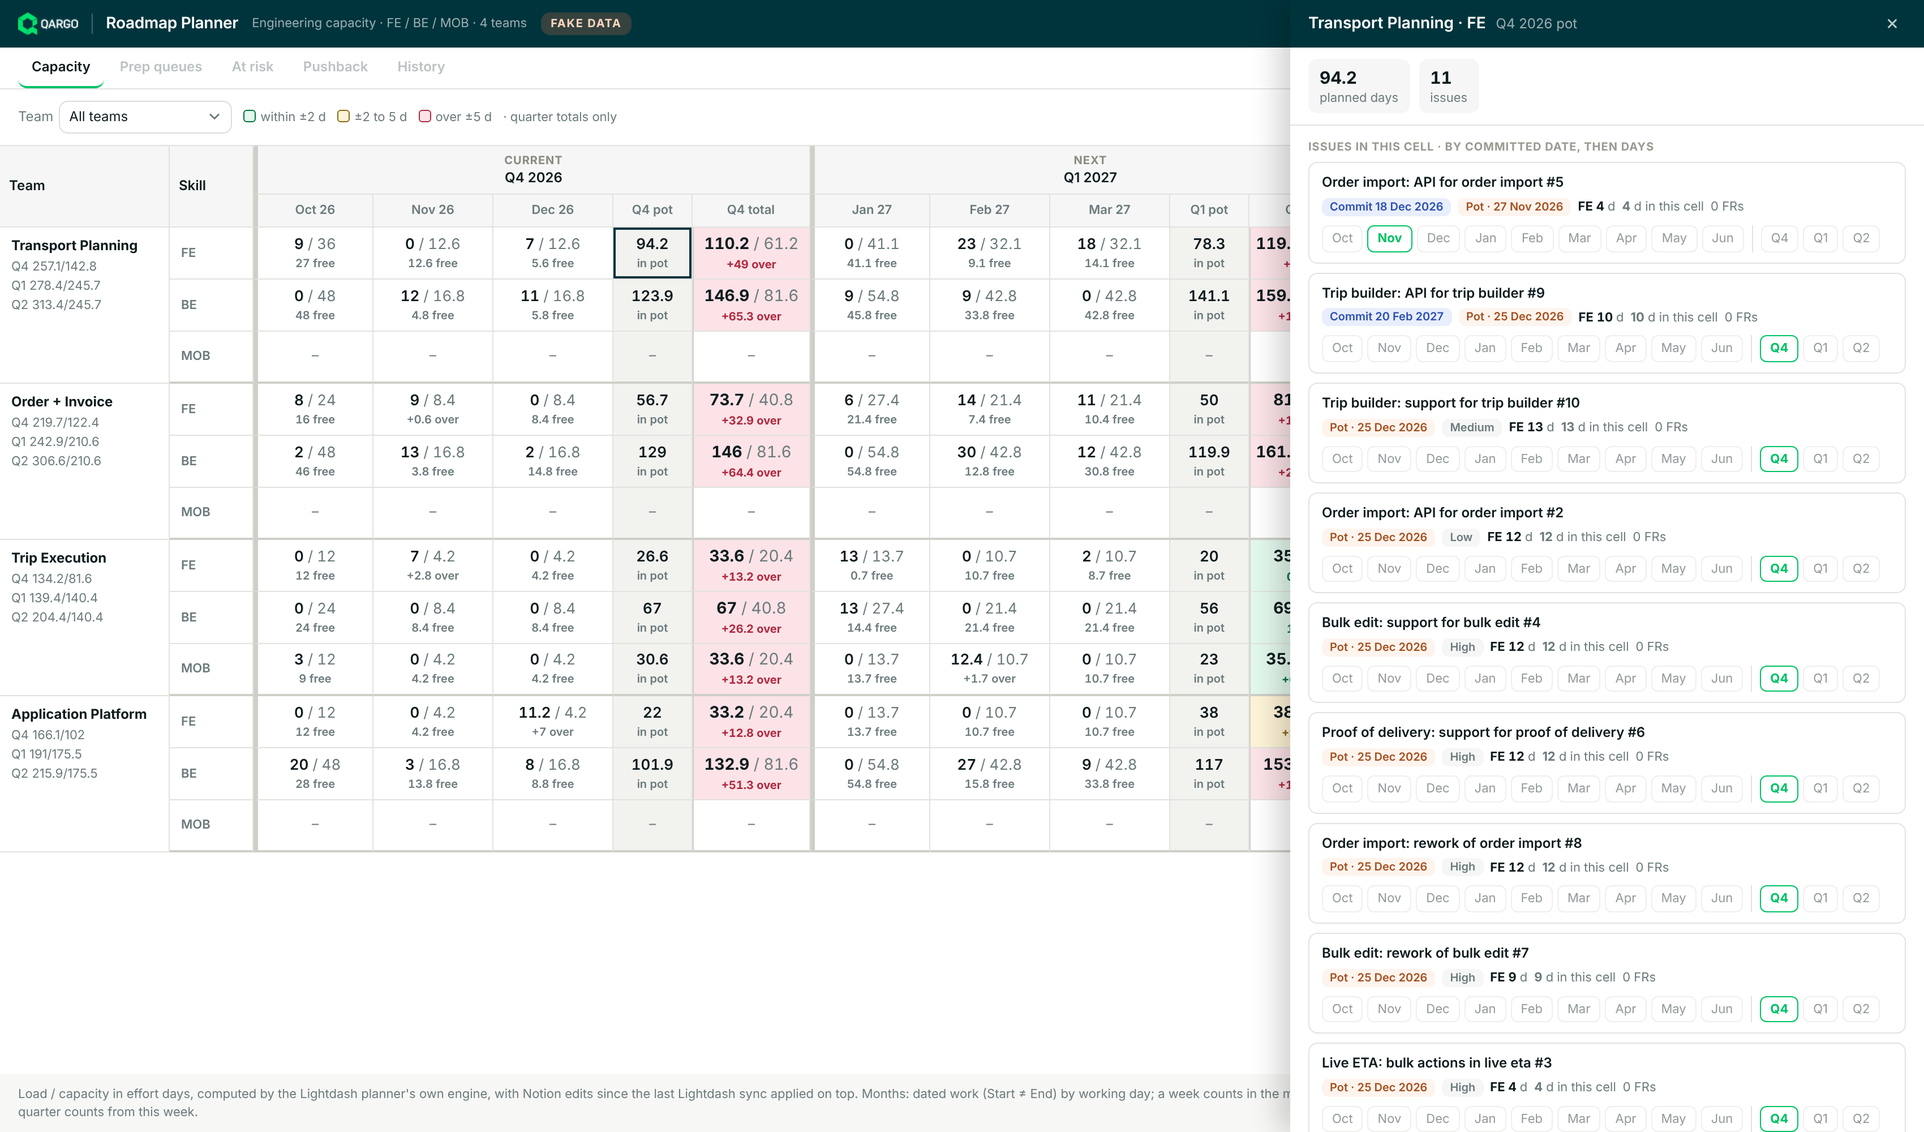
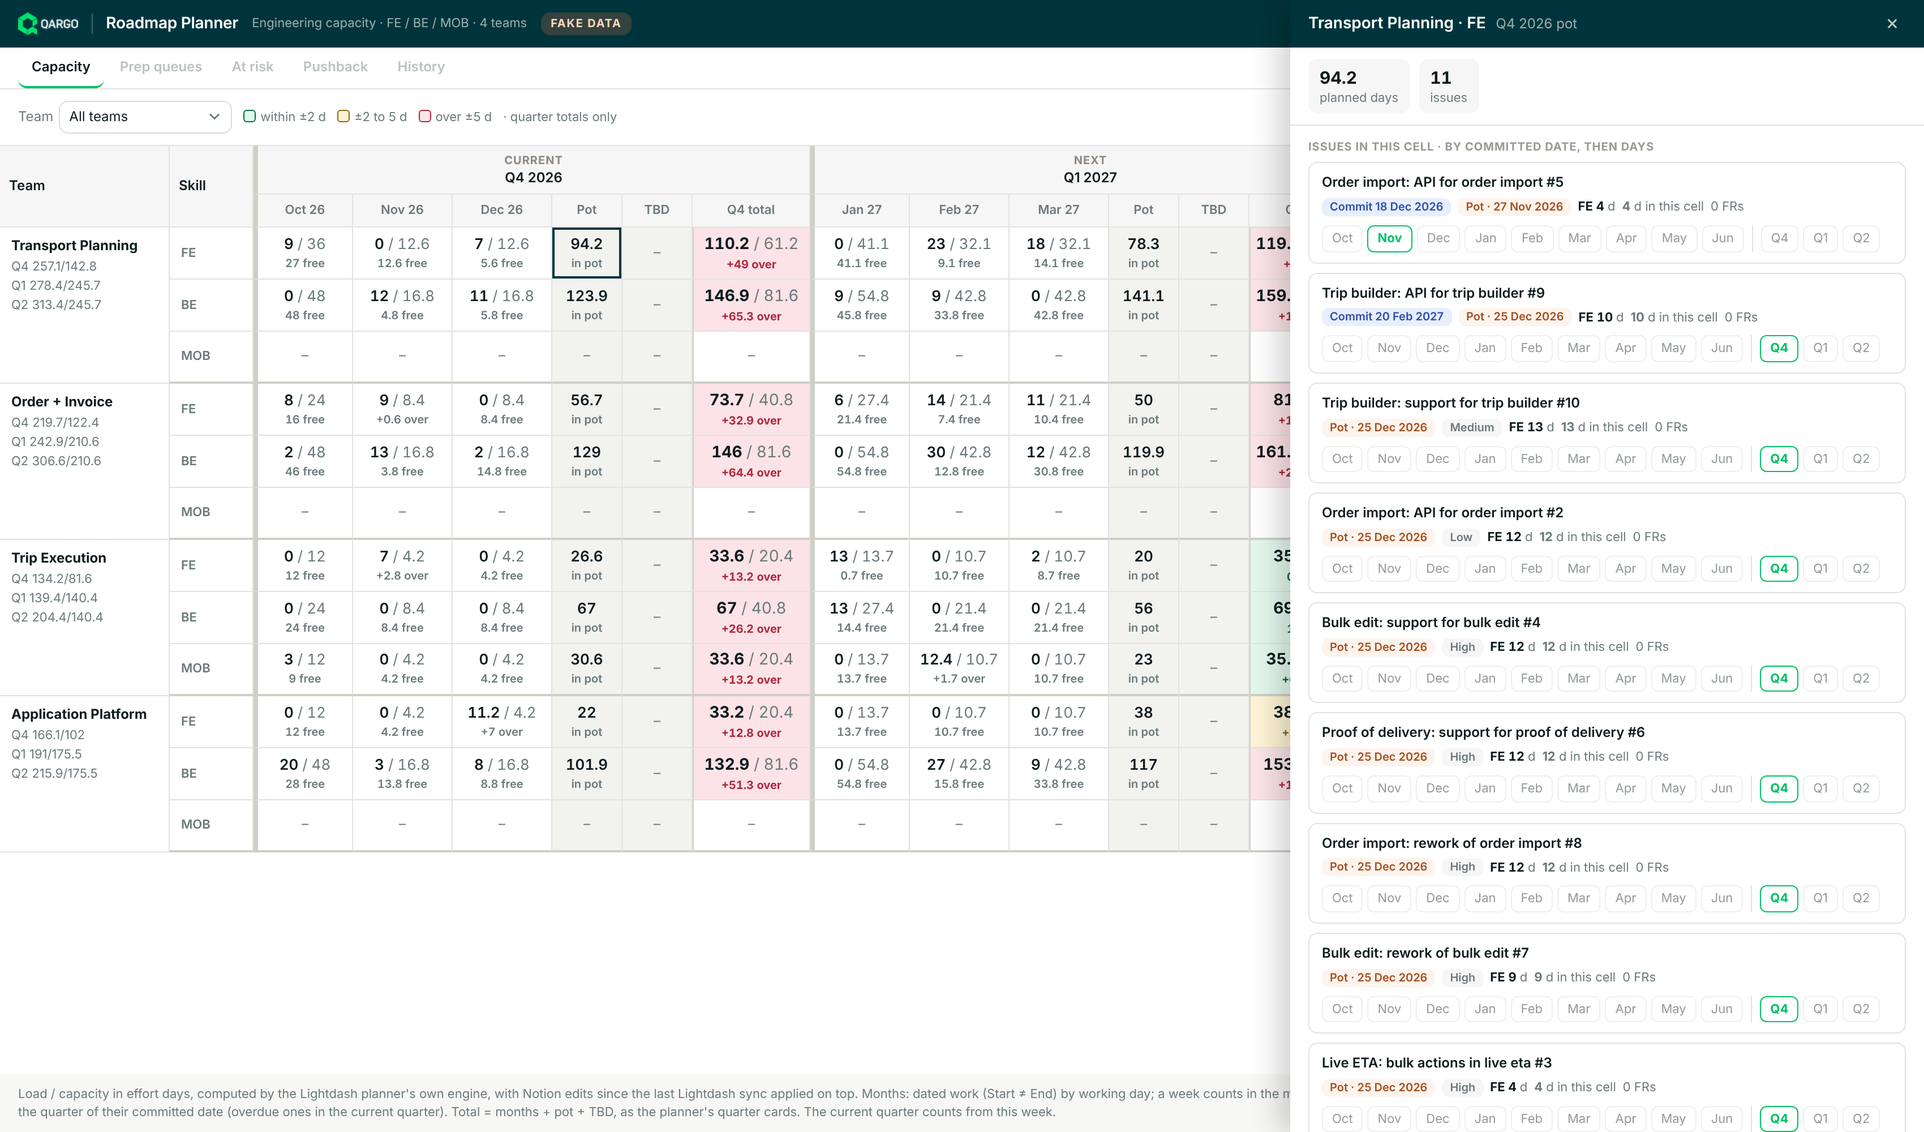
Match the planner's quarter cards: TBD bucket, exact app glue
- TBD: committed issues with no dates count in their committed quarter
  (overdue -> current quarter), as committedTbdMap in the planner app
- Glue copied from the planner app export: TEAM_DISPLAY_ORDER,
  ALLOCATION_SETTINGS, emailToName (verified: no number changes)
- Live Lightdash query now includes customer tasks and deals, which feed
  the engine's effective committed date
- Grid: TBD column per quarter; drawer lists TBD issues
- 19 tests; SPEC.md open questions on glue and engine version closed

Claude-Session: https://claude.ai/code/session_01XsKd44qXQpBiwf2E6HxLbu

diff --git a/src/capacity.js b/src/capacity.js
@@ -11,6 +11,15 @@ export const TEAMS = ['Transport Planning', 'Order + Invoice', 'Trip Execution',
 export const SKILLS = ['FE', 'BE', 'MOB'];
 const ENGINE_SKILL = { FE: 'frontend', BE: 'backend', MOB: 'mobile' };
 
+// Glue copied from the planner app (src/config.js, App.jsx in Sander's export of 9 Oct 2026).
+// Keep in sync when Sander changes them.
+export const TEAM_DISPLAY_ORDER = [
+  'Order + Invoice', 'Transport Planning', 'Trip Execution', 'Application Platform',
+  'SRE', 'AI', 'BI', 'Security', 'Integration Hub',
+  'Connector: Order + Fleet', 'Connector: Bookings', 'Connector: Financials',
+];
+export const ALLOCATION_SETTINGS = { daysPerMonth: 10.2, horizon: 12, startMonth: '2026-07' };
+
 // SPEC.md > Capacity grid: quarter totals green within ±2 days, amber to ±5,
 // red beyond. Month cells pass scale = month capacity / quarter capacity.
 export function cellStatus(planned, capacity, scale = 1) {
@@ -40,22 +49,20 @@ function quiet(fn) {
 
 /**
  * Run the engine on Lightdash rows.
- * Glue we supply (open question in SPEC.md, to confirm with Sander):
- * - config.teams: every team in the allocation plan, so assignee routing matches the planner.
- * - config.emailToName: allocation email → allocation title. Without it, planned holidays never count.
- * - settings: {} so the engine's defaults apply (ramp start month 2026-07).
+ * Glue identical to the planner app (App.jsx): settings = ALLOCATION_SETTINGS,
+ * emailToName = allocation email → allocation title, teams = buildTeams(allocation, TEAM_DISPLAY_ORDER).
  */
 export function runCapacity(lightdashRows, { now = new Date() } = {}) {
   return quiet(() => {
     const rows = toEngineRows(lightdashRows);
     const { issues, customerTasks } = Engine.transformRows(rows);
-    const alloc = Engine.buildAllocation(rows, {});
-    const teams = Engine.buildTeams(alloc, alloc.teams.map((t) => t.name));
+    const alloc = Engine.buildAllocation(rows, ALLOCATION_SETTINGS);
+    const teams = Engine.buildTeams(alloc, TEAM_DISPLAY_ORDER);
     const emailToName = {};
     alloc.people.forEach((p) => { if (p.email) emailToName[p.email] = p.name; });
     const { computed } = Engine.compute({ issues, config: { teams, emailToName } }, alloc, { now });
     const teamIdByLabel = Object.fromEntries(teams.map((t) => [t.label, t.id]));
-    return { issues, customerTasks, computed, teamIdByLabel };
+    return { issues, customerTasks, computed, teamIdByLabel, now };
   });
 }
 
@@ -63,17 +70,48 @@ const quarterIdx = (year, q) => year * 4 + (q - 1);
 const sumMonth = (byWeek, monthKey) => Object.entries(byWeek || {})
   .reduce((s, [wk, v]) => s + (Engine.weekYm(wk) === monthKey ? v : 0), 0);
 
+const currentQuarterIdx = (now) => now.getFullYear() * 4 + Math.floor(now.getMonth() / 3);
+
 /**
- * Grid model: one row per team × skill; per quarter its 3 months, the pot and the total.
+ * "TBD" exactly like the planner's committedTbdMap (template-script.js): committed issues with
+ * no Start and no End, counted in the quarter of their (effective) committed date; overdue
+ * commitments fold into the current quarter; beyond the 3 visible quarters they are dropped.
+ * Returns skill → quarterIdx → days, plus the issue indices per skill/quarter for the drawer.
+ */
+function tbdFor(run, tid) {
+  const { computed: c, issues, now } = run;
+  const base = currentQuarterIdx(now);
+  const days = {};
+  const entries = {};
+  for (const idx of c.committedUnplanned?.[tid] || []) {
+    const iss = issues[idx];
+    if (!iss?.committed) continue;
+    const [cy, cm] = String(iss.committed).split('-').map(Number);
+    let qi = cy * 4 + Math.floor((cm - 1) / 3);
+    if (qi < base) qi = base;
+    if (qi > base + 2) continue;
+    for (const [sk, v] of Object.entries(iss.skillEfforts || {})) {
+      if (!(v > 0)) continue;
+      ((days[sk] ||= {})[qi] = (days[sk][qi] || 0) + v);
+      (((entries[sk] ||= {})[qi] ||= {})[idx] = v);
+    }
+  }
+  return { days, entries };
+}
+
+/**
+ * Grid model: one row per team × skill; per quarter its 3 months, the pot, the TBD and the total.
  * - Months: dated work (Start ≠ End) spread over working days; a week counts in the month of its Friday.
  * - Pot: issues with Start = End, at quarter level only (no month), exactly like the planner.
- * - Total: months + pot against the quarter's capacity.
+ * - TBD: committed issues with no dates, in the quarter of their committed date (see tbdFor).
+ * - Total: months + pot + TBD against the quarter's capacity, as the planner's quarter cards.
  */
 export function buildGrid(run, horizon) {
   const { computed: c, teamIdByLabel } = run;
   const rows = [];
   for (const team of TEAMS) {
     const tid = teamIdByLabel[team];
+    const tbd = tbdFor(run, tid);
     for (const skill of SKILLS) {
       const sk = ENGINE_SKILL[skill];
       const quarters = horizon.map((q) => {
@@ -84,9 +122,11 @@ export function buildGrid(run, horizon) {
         }));
         const cap = raw.reduce((s, m) => s + m.capacity, 0);
         const months = raw.map((m) => ({ ...m, status: cellStatus(m.planned, m.capacity, cap ? m.capacity / cap : 1 / 3) }));
-        const pot = c.newTeamSkillPotQ?.[tid]?.[sk]?.[quarterIdx(q.year, q.q)] || 0;
-        const planned = months.reduce((s, m) => s + m.planned, 0) + pot;
-        return { key: q.key, months, pot, planned, capacity: cap, status: cellStatus(planned, cap) };
+        const qi = quarterIdx(q.year, q.q);
+        const pot = c.newTeamSkillPotQ?.[tid]?.[sk]?.[qi] || 0;
+        const tbdDays = tbd.days[sk]?.[qi] || 0;
+        const planned = months.reduce((s, m) => s + m.planned, 0) + pot + tbdDays;
+        return { key: q.key, months, pot, tbd: tbdDays, planned, capacity: cap, status: cellStatus(planned, cap) };
       });
       rows.push({ team, skill, quarters });
     }
@@ -96,7 +136,7 @@ export function buildGrid(run, horizon) {
 
 /**
  * Issues behind one cell with the days they put there, committed date first, then most days.
- * period = 'YYYY-MM' (month), 'YYYY-Qn' (quarter total) or 'YYYY-Qn-pot'.
+ * period = 'YYYY-MM' (month), 'YYYY-Qn' (quarter total), 'YYYY-Qn-pot' or 'YYYY-Qn-tbd'.
  */
 export function cellIssues(run, team, skill, period) {
   const { computed: c, issues, teamIdByLabel } = run;
@@ -104,11 +144,13 @@ export function cellIssues(run, team, skill, period) {
   const sk = ENGINE_SKILL[skill];
   const days = {};
   const add = (map) => Object.entries(map || {}).forEach(([idx, v]) => { days[idx] = (days[idx] || 0) + v; });
-  const qm = /^(\d{4})-Q(\d)(-pot)?$/.exec(period);
+  const qm = /^(\d{4})-Q(\d)(?:-(pot|tbd))?$/.exec(period);
   if (qm) {
-    const [year, q, potOnly] = [Number(qm[1]), Number(qm[2]), !!qm[3]];
-    add(c.newTeamSkillPotEntries?.[tid]?.[sk]?.[quarterIdx(year, q)]);
-    if (!potOnly) {
+    const [year, q, part] = [Number(qm[1]), Number(qm[2]), qm[3]];
+    const qi = quarterIdx(year, q);
+    if (part !== 'tbd') add(c.newTeamSkillPotEntries?.[tid]?.[sk]?.[qi]);
+    if (part !== 'pot') add(tbdFor(run, tid).entries[sk]?.[qi]);
+    if (!part) {
       for (let i = 0; i < 3; i++) add(c.newTeamSkillMonthEntries?.[tid]?.[sk]?.[`${year}-${String((q - 1) * 3 + i + 1).padStart(2, '0')}`]);
     }
   } else {

diff --git a/src/ui/grid.js b/src/ui/grid.js
@@ -20,23 +20,24 @@ function cell(c, attrs, extraClass = '', neutral = false) {
     <div class="d">${delta(c.planned, c.capacity)}</div></td>`;
 }
 
-function potCell(days, attrs) {
-  if (!days) return '<td class="cell pot empty">–</td>';
-  return `<td class="cell pot" ${attrs} title="${fmt(days)} days with Start = End, at quarter level"><div class="n">${fmt(days)}</div><div class="d">in pot</div></td>`;
+function bucketCell(days, attrs, kind) {
+  if (!days) return `<td class="cell pot empty ${kind}">–</td>`;
+  const title = kind === 'tbd' ? 'committed, no dates yet: counted in the quarter of the committed date' : 'Start = End, at quarter level';
+  return `<td class="cell pot ${kind}" ${attrs} title="${fmt(days)} days ${title}"><div class="n">${fmt(days)}</div><div class="d">${kind === 'tbd' ? 'TBD' : 'in pot'}</div></td>`;
 }
 
 export function renderGrid(el, grid, horizon, { teamFilter = 'all' } = {}) {
   const teams = teamFilter === 'all' ? TEAMS : [teamFilter];
   let h = '<table class="grid"><colgroup><col class="c-team"><col class="c-skill">';
-  for (let i = 0; i < horizon.length; i++) h += '<col><col><col><col class="c-pot"><col class="c-qt">';
+  for (let i = 0; i < horizon.length; i++) h += '<col><col><col><col class="c-pot"><col class="c-pot"><col class="c-qt">';
   h += '</colgroup><thead><tr class="q"><th class="lead" rowspan="2">Team</th><th class="lead2" rowspan="2">Skill</th>';
   for (const q of horizon) {
-    h += `<th colspan="5" class="qdiv ${q.role}"><span class="role">${ROLE_LABEL[q.role]}</span>${esc(q.label)}</th>`;
+    h += `<th colspan="6" class="qdiv ${q.role}"><span class="role">${ROLE_LABEL[q.role]}</span>${esc(q.label)}</th>`;
   }
   h += '</tr><tr class="m">';
   for (const q of horizon) {
     q.months.forEach((m, i) => { h += `<th class="${i === 0 ? 'qdiv' : ''}">${m.label} ${String(m.year).slice(2)}</th>`; });
-    h += `<th>${q.shortLabel} pot</th><th>${q.shortLabel} total</th>`;
+    h += `<th title="Issues with Start = End">Pot</th><th title="Committed, no dates yet">TBD</th><th>${q.shortLabel} total</th>`;
   }
   h += '</tr></thead><tbody>';
 
@@ -56,7 +57,8 @@ export function renderGrid(el, grid, horizon, { teamFilter = 'all' } = {}) {
       const at = (period) => `data-team="${esc(team)}" data-skill="${row.skill}" data-period="${period}"`;
       row.quarters.forEach((q) => {
         q.months.forEach((m, i) => { h += cell(m, at(m.key), i === 0 ? 'qdiv' : '', true); });
-        h += potCell(q.pot, at(`${q.key}-pot`));
+        h += bucketCell(q.pot, at(`${q.key}-pot`), 'potc');
+        h += bucketCell(q.tbd, at(`${q.key}-tbd`), 'tbd');
         h += cell(q, at(q.key), 'qt');
       });
       h += '</tr>';

diff --git a/src/ui/drawer.js b/src/ui/drawer.js
@@ -14,6 +14,7 @@ function cellInfo(row, horizon, period) {
     const gq = row.quarters[qi];
     if (period === q.key) return { label: `${q.label} total`, c: gq };
     if (period === `${q.key}-pot`) return { label: `${q.label} pot`, c: { planned: gq.pot, capacity: null } };
+    if (period === `${q.key}-tbd`) return { label: `${q.label} TBD (committed, no dates)`, c: { planned: gq.tbd, capacity: null } };
     const mi = q.months.findIndex((m) => m.key === period);
     if (mi >= 0) return { label: `${q.months[mi].label} ${q.months[mi].year}`, c: gq.months[mi] };
   }
@@ -45,7 +46,7 @@ function issueCard({ issue, days }, skill, horizon, change) {
     return v ? (s === skill ? `<b>${s} ${fmt(v)}</b>` : `${s} ${fmt(v)}`) : null;
   }).filter(Boolean).join(' · ');
   const pot = issue.start && issue.start === issue.end;
-  const when = pot ? `Pot · ${formatDate(issue.end)}` : `${formatDate(issue.start)} → ${formatDate(issue.end)}`;
+  const when = !issue.start && !issue.end ? 'No dates (TBD)' : pot ? `Pot · ${formatDate(issue.end)}` : `${formatDate(issue.start)} → ${formatDate(issue.end)}`;
   const tags = [
     issue.committed ? `<span class="tag ${late ? 'late' : 'commit'}">${late ? 'After commit ' : 'Commit '}${formatDate(issue.committed)}</span>` : '',
     `<span class="tag ${pot ? 'qtr' : ''}">${when}</span>`,

diff --git a/src/ui/app.js b/src/ui/app.js
@@ -73,7 +73,7 @@ function shell() {
       <div id="banners"></div>
     </header>
     <main class="gridwrap" id="grid"><div class="loading">Loading capacity from Lightdash…</div></main>
-    <div class="note">Load / capacity in effort days, computed by the Lightdash planner's own engine, with Notion edits since the last Lightdash sync applied on top. Months: dated work (Start ≠ End) by working day; a week counts in the month of its Friday. Pot: issues with Start = End, at quarter level. Total = months + pot. The current quarter counts from this week.</div>
+    <div class="note">Load / capacity in effort days, computed by the Lightdash planner's own engine, with Notion edits since the last Lightdash sync applied on top. Months: dated work (Start ≠ End) by working day; a week counts in the month of its Friday. Pot: issues with Start = End, at quarter level. TBD: committed issues with no dates, in the quarter of their committed date (overdue ones in the current quarter). Total = months + pot + TBD, as the planner's quarter cards. The current quarter counts from this week.</div>
     <aside class="drawer" id="drawer"></aside>`;
 
   document.getElementById('teamSel').addEventListener('change', (e) => { state.teamFilter = e.target.value; draw(); });

diff --git a/test/capacity.test.js b/test/capacity.test.js
@@ -85,3 +85,16 @@ test('issues with effort but no team or assignee are flagged', () => {
   const { run } = grid([fe('a1')], [orphan]);
   assert.deepEqual(issuesWithoutTeam(run).map((i) => i.id), ['o1']);
 });
+
+test('TBD: committed issues without dates count in their committed quarter (overdue → current, beyond window → dropped)', () => {
+  const q1 = F({ id: 't1', title: 'Committed Feb, unplanned', team: TP, committed: '2027-02-10', fe: 7 });
+  const overdue = F({ id: 't2', title: 'Committed Aug, unplanned', team: TP, committed: '2026-08-01', fe: 3 });
+  const far = F({ id: 't3', title: 'Committed 2028', team: TP, committed: '2028-02-01', fe: 9 });
+  const { run, g } = grid([fe('a1')], [q1, overdue, far]);
+  const q = row(g, TP, 'FE').quarters;
+  close(q[0].tbd, 3); close(q[0].planned, 3);
+  close(q[1].tbd, 7); close(q[1].planned, 7);
+  close(q[2].tbd, 0);
+  assert.deepEqual(cellIssues(run, TP, 'FE', '2027-Q1-tbd').map((x) => x.issue.id), ['t1']);
+  assert.deepEqual(cellIssues(run, TP, 'FE', '2026-Q4').map((x) => x.issue.id), ['t2']);
+});

diff --git a/src/data/live.js b/src/data/live.js
@@ -48,7 +48,8 @@ export async function loadLightdashRows(mcp) {
     description: 'Default row of serve_engineering_capacity for the Roadmap Planner',
     queryConfig: {
       exploreName: 'serve_engineering_capacity',
-      dimensions: ['serve_engineering_capacity_features', 'serve_engineering_capacity_engineering_team_allocations'],
+      // Customer tasks feed the engine's effective committed date (earliest of the issue and its FRs); deals name the customers.
+      dimensions: ['serve_engineering_capacity_features', 'serve_engineering_capacity_engineering_team_allocations', 'serve_engineering_capacity_customer_tasks', 'serve_engineering_capacity_deals'],
       metrics: [], sorts: [], limit: 2,
       filters: { type: 'and', dimensions: [{ fieldId: 'serve_engineering_capacity_is_default', fieldType: 'boolean', fieldFilterType: 'boolean', operator: 'equals', values: [true] }] },
     },

diff --git a/src/ui/styles.css b/src/ui/styles.css
@@ -191,7 +191,8 @@ table.grid { border-collapse: separate; border-spacing: 0; font-size: 12px; tabl
 .datebtns button.cur { border-color: var(--green-dark); color: var(--green-dark); font-weight: 700; opacity: 1; }
 .datebtns .sep { width: 1px; background: var(--line); margin: 0 3px; }
 
-.grid col.c-team { width: 150px; } .grid col.c-skill { width: 74px; } .grid col.c-qt { width: 104px; } .grid col.c-pot { width: 70px; }
+.grid col.c-team { width: 150px; } .grid col.c-skill { width: 74px; } .grid col.c-qt { width: 104px; } .grid col.c-pot { width: 62px; }
+.grid td.cell.tbd .d { color: #b45309; }
 .grid td.cell.pot { background: var(--qtot); } .grid td.cell.pot .d { color: var(--muted); font-weight: 600; }
 .issue .t a { color: inherit; text-decoration: none; } .issue .t a:hover { text-decoration: underline; }
 @media (max-width: 640px) {

diff --git a/SPEC.md b/SPEC.md
@@ -56,6 +56,8 @@ Committed dates drive the plan; GO LIVE dates never do directly.
   - A week counts in the month of its Friday. The current quarter counts from the current week only.
   - Load goes to the assignee's team first; the Team property only routes unassigned issues. An issue with Team = Transport Planning assigned to a Connectors engineer counts against Connectors.
   - Issues with Start = End are the quarter "pot": they count at quarter level, never in a month, whether committed or not.
+  - "TBD": committed issues with no Start and no End count in the quarter of their effective committed date (earliest of the issue's own date, its customer tasks' dates and the issues it blocks). Overdue ones count in the current quarter; ones beyond the 3 visible quarters are left out.
+  - Firefighting without a skill is a team-level drain in the planner. It has no skill, so it is not in our per-skill cells.
 - Capacity is a constant job: estimates grow mid-quarter (5 to 15 days happens), dependencies surface, issues move. The tool must make each change visible.
 
 **Dependencies**
@@ -117,7 +119,8 @@ The main screen is the capacity puzzle; everything else feeds it or warns about 
 - Columns per quarter: 3 months, the pot, the quarter total. Matches the Lightdash planner exactly (decided 2026-10-09, replaces the earlier "spread ⅓ per month" decision).
   - Month: dated work (Start ≠ End) spread over its working days.
   - Pot: every issue with Start = End, at quarter level, including committed issues placed on a month's last Friday.
-  - Total: months + pot against the quarter's capacity.
+  - TBD: committed issues with no dates (see Capacity).
+  - Total: months + pot + TBD against the quarter's capacity, as the planner's quarter cards.
 - Each cell: planned days vs capacity. Quarter totals: green within ±2 days, amber to ±5, red beyond.
 - Month cells are neutral (no colour): with pot work at quarter level, month load alone says little. Only quarter totals are coloured. Decided 2026-10-09, replaces the earlier "scaled month thresholds".
 - Click a cell: the issues in it, sorted by committed date then score.
@@ -247,8 +250,9 @@ v1 replaces the Notion views for weekly planning; v2 opens it to others; v3 sugg
 - [x] Can Claude Code publish to the claude.ai artifact runtime with `mcp`? Yes, confirmed 2026-10-09.
 - [ ] How often does the Lightdash capacity dataset refresh? Decides how much the live Notion overlay must cover.
 - [x] Who owns the capacity planner's math? Sander De Wilde. We use his engine file unchanged and swap in each new export.
-- [ ] How does the planner app build `emailToName`, `settings` and `config.teams` for the engine? We map allocation email → allocation title (without it planned holidays never count) and use default settings. To confirm with Sander; it can move a Q4 cell by up to 4.5 days.
-- [ ] Engine version: we have the 27 Aug 2026 export. Sander to send the latest.
+- [x] How does the planner app build `emailToName`, `settings` and `config.teams`? Confirmed from Sander's app export (9 Oct 2026): email → title, `{daysPerMonth: 10.2, horizon: 12, startMonth: '2026-07'}`, `buildTeams(allocation, TEAM_DISPLAY_ORDER)`. Copied into `src/capacity.js`.
+- [x] Engine version: the app export of 9 Oct 2026 carries the same engine file as the 27 Aug export (byte-identical).
+- [ ] The default Lightdash row with customer tasks and deals is about 2.6 MB. Confirm it loads through the artifact's `mcp` capability (first test publish).
 - [ ] Where does the planner audit log live: a new Notion database, or the artifact's own storage?
 - [ ] Should a move of a committed issue past its commit be blocked, or allowed with a mandatory reason?
 

diff --git a/vendor/README.md b/vendor/README.md
@@ -4,9 +4,8 @@ Sander De Wilde's capacity engine from the Lightdash Engineering Capacity Planne
 (`bi-internal`, `lightdash/qargo/apps/engineering-capacity-planner/capacity-engine.js`).
 
 - Used UNCHANGED so our capacity and load numbers match the planner by construction.
-- Version: export of 27 Aug 2026, received from Sander via Slack on 9 Oct 2026.
+- Version: export of 27 Aug 2026, received from Sander via Slack on 9 Oct 2026. The full app export of 9 Oct 2026 carries the identical file.
 - To update: replace the file with Sander's latest export, run `npm test`, commit.
   Never edit it here; ask Sander to change it upstream.
-- Glue we supply ourselves (not in this file, see src/capacity.js):
-  `config.teams`, `config.emailToName`, `settings`. Confirm with Sander how the
-  planner builds these (open question in SPEC.md).
+- Glue (teams, emailToName, settings) is copied from the planner's App.jsx and
+  config.js into src/capacity.js. Keep it in sync when Sander changes them.
